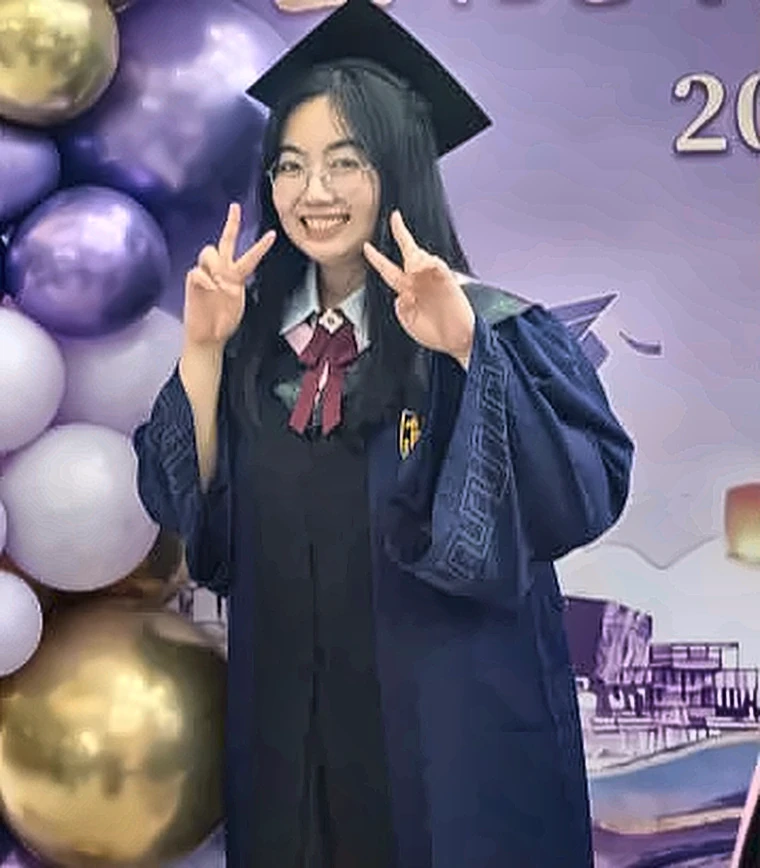
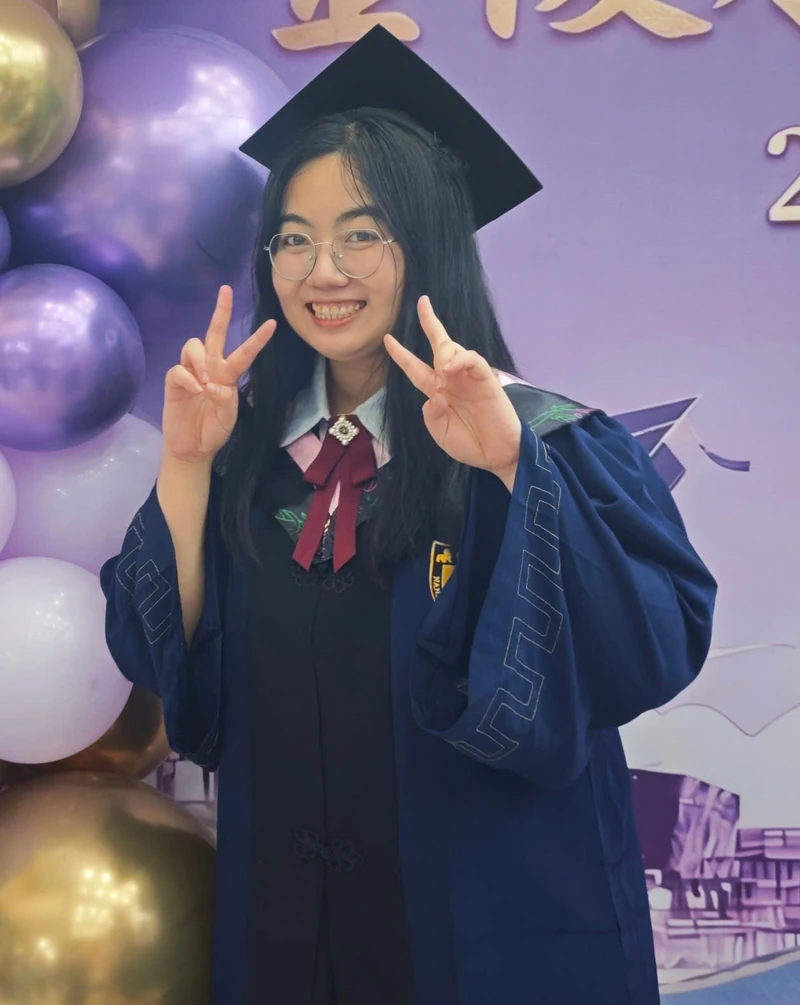
Trang chủ: dùng ảnh gốc rõ nét cho phần giới thiệu cô Roxie
Claude-Session: https://claude.ai/code/session_01PP8723tra8SF1eGCuuoKea

diff --git a/public/index.html b/public/index.html
@@ -3,7 +3,7 @@
 <div class="wrap quick-path"><a href="#khoa-hoc"><span class="path-number">01</span><span><b>Mình mới bắt đầu</b><small>Tìm lớp học phù hợp</small></span><i>↗</i></a><a href="#tro-choi"><span class="path-number">02</span><span><b>Mình muốn ôn bài</b><small>Chơi một chút, nhớ thêm từ</small></span><i>↗</i></a><a href="#co-giao"><span class="path-number">03</span><span><b>Làm quen cô Roxie</b><small>Gặp người bạn đồng hành</small></span><i>↗</i></a></div>
 <section id="tro-choi" class="wrap section"><div class="section-head"><div><p class="eyebrow">GÓC TRÒ CHƠI</p><h2>Học mà như đang chơi.</h2></div><p>Ôn từ vựng theo cách của bạn.<br>Không cần đăng nhập, mở lên là chơi.</p></div><div class="games"><article class="game"><a class="game-cover melon" href="dua-hau.html" aria-label="Chơi Dưa Hấu Rừng Xanh"><span class="tag">Gộp trái cây</span><svg viewBox="0 0 400 190" aria-hidden="true"><ellipse cx="206" cy="165" rx="118" ry="12" fill="#1a6352" opacity=".1"/><g stroke="#285b46" stroke-width="4" stroke-linejoin="round"><path d="M106 64a100 100 0 0 0 200 0Z" fill="#70b887"/><path d="M119 66a87 87 0 0 0 174 0Z" fill="#fff3c9"/><path d="M130 67a76 76 0 0 0 152 0Z" fill="#f38087"/><circle cx="85" cy="136" r="29" fill="#f1bf55"/><circle cx="317" cy="123" r="31" fill="#f4a37c"/></g><g fill="#453a3a"><ellipse cx="171" cy="91" rx="3" ry="5" transform="rotate(-20 171 91)"/><ellipse cx="205" cy="105" rx="3" ry="5"/><ellipse cx="239" cy="91" rx="3" ry="5" transform="rotate(20 239 91)"/></g><path d="M78 108q7-25 25-16q-7 19-25 16M310 91q10-21 27-13q-9 19-27 13" fill="#4e996c"/></svg></a><div class="game-body"><small>TỪ VỰNG · PHẢN XẠ</small><h3>Dưa Hấu Rừng Xanh</h3><p>Gộp hai trái giống nhau và học tên các loại quả, từ 樱桃 đến 西瓜.</p><a class="text-link" href="dua-hau.html">Chơi ngay <span>↗</span></a></div></article><article class="game"><a class="game-cover peach" href="chem-hoa-qua.html" aria-label="Chơi Chém Hoa Quả"><span class="tag">Ghép từ thật nhanh</span><svg viewBox="0 0 400 190" aria-hidden="true"><g stroke="#5f5540" stroke-width="3"><circle cx="117" cy="107" r="43" fill="#f6b55a"/><circle cx="239" cy="73" r="29" fill="#f191a1"/><circle cx="290" cy="137" r="33" fill="#9ab986"/></g><path d="m163 154 90-118" stroke="#fff" stroke-width="9" stroke-linecap="round"/><path d="m177 157 79-103" stroke="#fff" stroke-opacity=".45" stroke-width="3" stroke-linecap="round"/><g fill="#70966b"><path d="M102 64q10-26 33-17q-8 20-33 17M231 42q8-19 24-13q-4 16-24 13"/></g><g fill="#587f6f" font-family="serif" font-size="27"><text x="34" y="49">词</text><text x="330" y="69">语</text></g></svg></a><div class="game-body"><small>TỪ GHÉP · THỬ THÁCH</small><h3>Chém Hoa Quả</h3><p>Đọc câu hỏi, tìm từ ghép đúng và chém quả bằng chuột, ngón tay hoặc camera.</p><a class="text-link" href="chem-hoa-qua.html">Chơi ngay <span>↗</span></a></div></article><article class="game"><a class="game-cover city" href="thanh-pho.html" aria-label="Khám phá Thành Phố Cá Voi"><span class="tag">Khám phá & học từ</span><img src="assets/city-preview.png" alt="Bản đồ công viên trong thế giới Thành Phố Cá Voi" width="1400" height="1000" loading="lazy"></a><div class="game-body"><small>TỪ VỰNG HSK · KHÁM PHÁ</small><h3>Thành Phố Cá Voi</h3><p>Ghé chợ, quán ăn, bệnh viện, ga tàu… làm nhiệm vụ từ vựng và thu thập sao.</p><a class="text-link" href="thanh-pho.html">Vào thành phố <span>↗</span></a></div></article></div><div class="games" style="margin-top:23px"><article class="game"><a class="game-cover" style="background:var(--lilac)" href="live.html" aria-label="Vào phòng học trực tiếp"><span class="tag">Giáo viên và cả lớp cùng chơi</span><svg viewBox="0 0 400 190" aria-hidden="true"><g stroke="#5b4f78" stroke-width="3" stroke-linejoin="round"><rect x="60" y="44" width="280" height="92" rx="18" fill="#fffefa"/><circle cx="120" cy="90" r="22" fill="#cfe3f5"/><circle cx="200" cy="90" r="22" fill="#f9e7af"/><circle cx="280" cy="90" r="22" fill="#d9ecd9"/></g><g fill="#587f6f" font-family="serif" font-size="24" text-anchor="middle"><text x="120" y="99">学</text><text x="200" y="99">问</text><text x="280" y="99">好</text></g><path d="M150 150h100" stroke="#8a79b0" stroke-width="6" stroke-linecap="round"/></svg></a><div class="game-body"><small>TRỰC TIẾP · NHẬP MÃ PHÒNG</small><h3>Phòng học trực tiếp</h3><p>Nhập mã giáo viên gửi để vào lớp: Đấu trường, Đua cá voi, Kéo co cùng bạn bè.</p><a class="text-link" href="live.html">Vào phòng <span>↗</span></a></div></article><article class="game"><a class="game-cover" style="background:var(--butter)" href="tro-choi.html" aria-label="Sân chơi ôn tập"><span class="tag">9 trò chơi · không cần đăng nhập</span><svg viewBox="0 0 400 190" aria-hidden="true"><g stroke="#8a6d2a" stroke-width="3" stroke-linejoin="round"><rect x="70" y="40" width="70" height="70" rx="14" fill="#fffefa"/><rect x="165" y="60" width="70" height="70" rx="14" fill="#cfe3f5"/><rect x="260" y="40" width="70" height="70" rx="14" fill="#f5d4cf"/></g><g fill="#587f6f" font-family="serif" font-size="34" text-anchor="middle"><text x="105" y="88">鱼</text><text x="200" y="108">鲸</text><text x="295" y="88">海</text></g><path d="M100 150q100 22 200 0" stroke="#fff" stroke-width="6" fill="none" stroke-linecap="round"/></svg></a><div class="game-body"><small>TỰ ÔN TẬP · TỪ VỰNG VÀ NGỮ PHÁP</small><h3>Sân chơi ôn tập</h3><p>Nối cặp, lật thẻ, triệu phú, bong bóng, đào vàng, cá voi bay… chọn bài rồi chơi.</p><a class="text-link" href="tro-choi.html">Chơi ngay <span>↗</span></a></div></article><article class="game"><a class="game-cover" style="background:var(--mint)" href="phong.html" aria-label="Dành cho giáo viên"><span class="tag">Dành cho giáo viên</span><svg viewBox="0 0 400 190" aria-hidden="true"><g stroke="#285b46" stroke-width="3" stroke-linejoin="round"><rect x="110" y="36" width="180" height="110" rx="16" fill="#fffefa"/></g><g fill="#2a6858"><rect x="134" y="62" width="70" height="8" rx="4"/><rect x="134" y="82" width="132" height="8" rx="4" opacity=".5"/><rect x="134" y="102" width="100" height="8" rx="4" opacity=".5"/></g><circle cx="262" cy="64" r="12" fill="#f3d88e" stroke="#a27f30" stroke-width="2"/></svg></a><div class="game-body"><small>GIÁO VIÊN · QUẢN TRỊ</small><h3>Phòng học của giáo viên</h3><p>Đăng nhập để tạo phòng, chọn bài từ vựng và ngữ pháp, rồi gửi mã cho học sinh.</p><a class="text-link" href="phong.html">Đăng nhập <span>↗</span></a></div></article></div><p class="section-foot">Một chút tò mò hôm nay, thêm một từ mới ngày mai. <span>一起学习吧！</span></p></section>
 <section id="khoa-hoc" class="course-section section"><div class="wrap"><div class="section-head"><div><p class="eyebrow">CON ĐƯỜNG HSK CỦA BẠN</p><h2>Mỗi chặng, một bước tiến.</h2></div><p>Từ những câu chào đầu tiên<br>đến tự tin trò chuyện bằng tiếng Trung.</p></div><div class="filter-row" role="group" aria-label="Lọc khóa học"><button class="filter on" data-filter="all" aria-pressed="true">Tất cả khóa học</button><button class="filter" data-filter="beginner" aria-pressed="false">Bắt đầu · HSK 1–2</button><button class="filter" data-filter="middle" aria-pressed="false">Tiếp nối · HSK 3–4</button><button class="filter" data-filter="advanced" aria-pressed="false">Nâng cao · HSK 5–6</button></div><p class="sr-only" id="filter-status" aria-live="polite">6 khóa học</p><div class="cards course-grid"><article class="card course l1" id="hsk1" data-level="beginner"><div class="hd"><span class="seal" aria-hidden="true">一</span><div><div class="lv">Sơ cấp</div><h3>HSK 1 · 3.0</h3></div></div><p>Cho người mới bắt đầu. Học ngữ âm, từ vựng, ngữ pháp và chữ Hán sơ cấp, phát âm chuẩn tiếng phổ thông.</p><dl><dt>Số buổi</dt><dd>24 buổi + 1 buổi thi</dd><dt>Học phí</dt><dd>2.300.000đ</dd></dl><div class="row"><a class="btn gold" style="padding:8px 20px;font-size:15px" href="hsk1.html">Xem chi tiết →</a></div></article><article class="card course l2" id="hsk2" data-level="beginner"><div class="hd"><span class="seal" aria-hidden="true">二</span><div><div class="lv">Sơ cấp</div><h3>HSK 2 · 3.0</h3></div></div><p>Cho bạn đã xong HSK 1 (3.0). Mở rộng hội thoại về du lịch, mua sắm, sinh hoạt.</p><dl><dt>Số buổi</dt><dd>25 buổi + 1 buổi thi</dd><dt>Học phí</dt><dd>2.400.000đ</dd></dl><div class="row"><a class="btn gold" style="padding:8px 20px;font-size:15px" href="hsk2.html">Xem chi tiết →</a></div></article><article class="card course l3" id="hsk3" data-level="middle"><div class="hd"><span class="seal" aria-hidden="true">三</span><div><div class="lv">Sơ - Trung cấp</div><h3>HSK 3 · 3.0</h3></div></div><p>Rèn 5 kỹ năng nghe, nói, đọc, viết, dịch. Nắm 2245 từ vựng và 210 điểm ngữ pháp. Có làm việc nhóm, nghe nói ngay tại lớp và 2 lần thuyết trình trong cả khóa.</p><dl><dt>Số buổi</dt><dd>30 buổi + 1 buổi thi</dd><dt>Học phí</dt><dd>3.300.000đ</dd></dl><div class="row"><a class="btn gold" style="padding:8px 20px;font-size:15px" href="hsk3.html">Xem chi tiết →</a></div></article><article class="card course l4 wip" id="hsk4" data-level="middle"><div class="hd"><span class="seal" aria-hidden="true">四</span><div><div class="lv">Trung cấp</div><h3>HSK 4</h3></div></div><p>Thông tin chi tiết khóa HSK 4 đang được cập nhật.</p><dl><dt>Liên hệ</dt><dd>Nhắn cô Roxie để biết lịch và học phí</dd></dl><div class="row"><a class="btn gold" style="padding:8px 20px;font-size:15px" href="hsk4.html">Xem chi tiết →</a></div></article><article class="card course l5" id="hsk5" data-level="advanced"><div class="hd"><span class="seal" aria-hidden="true">五</span><div><div class="lv">Trung cấp</div><h3>HSK 5</h3></div></div><p>Dạy bằng tiếng Trung xuyên suốt. Có thảo luận nhóm, bài luận, biện luận 辩论赛 và 2 lần thuyết trình nhóm. Nâng 5 kỹ năng nghe, nói, đọc, viết, gõ chữ lên mức Trung cấp.</p><dl><dt>Số buổi</dt><dd>52 buổi, 2 buổi mỗi tuần</dd><dt>Học phí</dt><dd>7.100.000đ</dd></dl><div class="row"><a class="btn gold" style="padding:8px 20px;font-size:15px" href="hsk5.html">Xem chi tiết →</a></div></article><article class="card course l6" id="hsk6" data-level="advanced"><div class="hd"><span class="seal" aria-hidden="true">六</span><div><div class="lv">Cao cấp</div><h3>HSK 6</h3></div></div><p>Lớp giao tiếp và thảo luận trong mỗi buổi, làm việc nhóm, thuyết trình, xem báo và video trả lời câu hỏi, kèm bài tập nói và viết. Không phù hợp với bạn học cấp tốc.</p><dl><dt>Số buổi</dt><dd>50 buổi, 2 buổi mỗi tuần</dd><dt>Học phí</dt><dd>Liên hệ cô Roxie</dd></dl><div class="row"><a class="btn gold" style="padding:8px 20px;font-size:15px" href="hsk6.html">Xem chi tiết →</a></div></article></div><div class="course-hint"><span>✦</span><p><b>Chưa từng học tiếng Trung?</b> Bắt đầu với HSK 1 để làm quen ngữ âm, chữ Hán và những cuộc hội thoại đầu tiên.</p><a href="hsk1.html">Xem HSK 1 →</a></div></div></section>
-<section id="co-giao" class="wrap section"><div class="teacher-layout"><div class="teacher-art"><img class="teacher-photo" src="assets/teachers/dang-thi-nhu-tam.webp?v=2" alt="Ths. Đặng Thị Như Tâm (cô Roxie)" width="714" height="816" loading="lazy"><span class="teacher-sticker">慢慢来，比较快。<small>Chậm rãi mà vững vàng.</small></span></div><div class="teacher-copy"><p class="eyebrow">NGƯỜI ĐỒNG HÀNH CÙNG BẠN</p><h2>Xin chào,<br> cô là Roxie.</h2><p><b>Ths. Đặng Thị Như Tâm</b>, thạc sĩ Giáo dục Hán ngữ quốc tế, ĐH Nam Kinh (top 6 Trung Quốc), có chứng chỉ HSK 6, HSKK Cao cấp và HSK 7.</p><p>Cô có hơn 5 năm dạy tiếng Trung các cấp từ HSK 1 đến HSK 6, với lớp nhỏ 8–10 bạn. Cùng giao tiếp, thảo luận ngay trong buổi học, luyện nói và viết sau mỗi bài, có video để xem lại.</p><div class="teacher-tags"><span>HSK 1 đến HSK 6</span><span>Lớp nhỏ 8–10 bạn</span><span>Xem lại video buổi học</span></div><details><summary>Học vấn và thành tích</summary><ul class="bio"><li>2026: Tốt nghiệp Thạc sĩ ngành Giáo dục Hán ngữ quốc tế, ĐH Nam Kinh (top 6 Trung Quốc)</li><li>9/2023: Nghiên cứu sinh Thạc sĩ tại ĐH Nam Kinh, học bổng toàn phần của chính phủ Trung Quốc năm 2023</li><li>7/2023: Tốt nghiệp loại giỏi ngành Ngôn ngữ Trung Quốc, ĐH Thủ Dầu Một</li><li>Học bổng 1 kỳ tiếng do Viện Khổng Tử cấp tại ĐH Vũ Hán</li><li>Hơn 5 năm kinh nghiệm giảng dạy tiếng Trung các cấp (HSK 1 đến HSK 6)</li><li>Chứng chỉ HSK 6, HSKK Cao cấp, HSK 7</li><li>Chứng nhận đào tạo giáo viên: ĐH SP Bắc Kinh, ĐH SP Thủ Đô, ĐH SP Liêu Ninh, ĐH Ngoại ngữ Bắc Kinh (2025), ĐH Ký Nam (2026); chứng nhận nghiệp vụ sư phạm dành cho giảng viên đại học ở Việt Nam</li><li>Học 1 kỳ hoặc 1 năm tiếng tại ĐH Vũ Hán, ĐH SP Hoa Đông, ĐH Đông Hoa Thượng Hải, ĐH Tài chính Đông Bắc, ĐH Tài chính Tây Nam, ĐH Tây Bắc</li><li>2 lần nhận học bổng Zhenggang dành cho nghiên cứu sinh xuất sắc của ĐH Nam Kinh (2024 và 2025)</li><li>1 trong 4 du học sinh toàn trường nhận học bổng nghiên cứu sinh xuất sắc của tỉnh Giang Tô năm 2025</li><li>Giải ba cuộc thi giảng dạy tiếng Trung dành cho nghiên cứu sinh tỉnh Giang Tô</li><li>Giải đề cử cuộc thi 联合国中文日暨中央广播电影总台 quy mô thế giới</li><li>Giải khuyến khích Báo cáo học thuật (502校庆) của Viện Hải ngoại, ĐH Nam Kinh</li><li>Giải &quot;Hoạt động xã hội xuất sắc&quot; tại ĐH Tài chính Đông Bắc, học kỳ mùa Đông</li><li>Đại sứ truyền thông của ĐH SP Hoa Đông Thượng Hải, nhóm đạt giải 3</li><li>Phó chủ nhiệm Trung tâm sinh viên Quốc tế, ĐH Nam Kinh</li></ul></details><p style="margin-top:16px"><a href="#doi-ngu"><b>Gặp đội ngũ giáo viên →</b></a></p></div></div></section>
+<section id="co-giao" class="wrap section"><div class="teacher-layout"><div class="teacher-art"><img class="teacher-photo" src="assets/teachers/dang-thi-nhu-tam.webp?v=3" alt="Ths. Đặng Thị Như Tâm (cô Roxie)" width="800" height="1005" loading="lazy"><span class="teacher-sticker">慢慢来，比较快。<small>Chậm rãi mà vững vàng.</small></span></div><div class="teacher-copy"><p class="eyebrow">NGƯỜI ĐỒNG HÀNH CÙNG BẠN</p><h2>Xin chào,<br> cô là Roxie.</h2><p><b>Ths. Đặng Thị Như Tâm</b>, thạc sĩ Giáo dục Hán ngữ quốc tế, ĐH Nam Kinh (top 6 Trung Quốc), có chứng chỉ HSK 6, HSKK Cao cấp và HSK 7.</p><p>Cô có hơn 5 năm dạy tiếng Trung các cấp từ HSK 1 đến HSK 6, với lớp nhỏ 8–10 bạn. Cùng giao tiếp, thảo luận ngay trong buổi học, luyện nói và viết sau mỗi bài, có video để xem lại.</p><div class="teacher-tags"><span>HSK 1 đến HSK 6</span><span>Lớp nhỏ 8–10 bạn</span><span>Xem lại video buổi học</span></div><details><summary>Học vấn và thành tích</summary><ul class="bio"><li>2026: Tốt nghiệp Thạc sĩ ngành Giáo dục Hán ngữ quốc tế, ĐH Nam Kinh (top 6 Trung Quốc)</li><li>9/2023: Nghiên cứu sinh Thạc sĩ tại ĐH Nam Kinh, học bổng toàn phần của chính phủ Trung Quốc năm 2023</li><li>7/2023: Tốt nghiệp loại giỏi ngành Ngôn ngữ Trung Quốc, ĐH Thủ Dầu Một</li><li>Học bổng 1 kỳ tiếng do Viện Khổng Tử cấp tại ĐH Vũ Hán</li><li>Hơn 5 năm kinh nghiệm giảng dạy tiếng Trung các cấp (HSK 1 đến HSK 6)</li><li>Chứng chỉ HSK 6, HSKK Cao cấp, HSK 7</li><li>Chứng nhận đào tạo giáo viên: ĐH SP Bắc Kinh, ĐH SP Thủ Đô, ĐH SP Liêu Ninh, ĐH Ngoại ngữ Bắc Kinh (2025), ĐH Ký Nam (2026); chứng nhận nghiệp vụ sư phạm dành cho giảng viên đại học ở Việt Nam</li><li>Học 1 kỳ hoặc 1 năm tiếng tại ĐH Vũ Hán, ĐH SP Hoa Đông, ĐH Đông Hoa Thượng Hải, ĐH Tài chính Đông Bắc, ĐH Tài chính Tây Nam, ĐH Tây Bắc</li><li>2 lần nhận học bổng Zhenggang dành cho nghiên cứu sinh xuất sắc của ĐH Nam Kinh (2024 và 2025)</li><li>1 trong 4 du học sinh toàn trường nhận học bổng nghiên cứu sinh xuất sắc của tỉnh Giang Tô năm 2025</li><li>Giải ba cuộc thi giảng dạy tiếng Trung dành cho nghiên cứu sinh tỉnh Giang Tô</li><li>Giải đề cử cuộc thi 联合国中文日暨中央广播电影总台 quy mô thế giới</li><li>Giải khuyến khích Báo cáo học thuật (502校庆) của Viện Hải ngoại, ĐH Nam Kinh</li><li>Giải &quot;Hoạt động xã hội xuất sắc&quot; tại ĐH Tài chính Đông Bắc, học kỳ mùa Đông</li><li>Đại sứ truyền thông của ĐH SP Hoa Đông Thượng Hải, nhóm đạt giải 3</li><li>Phó chủ nhiệm Trung tâm sinh viên Quốc tế, ĐH Nam Kinh</li></ul></details><p style="margin-top:16px"><a href="#doi-ngu"><b>Gặp đội ngũ giáo viên →</b></a></p></div></div></section>
 <section id="doi-ngu" class="wrap section"><style>.teacher-art img.teacher-photo{height:calc(100% - 44px);width:auto;border-radius:20px;margin-bottom:22px}#doi-ngu .gv-head{max-width:640px;margin-bottom:30px}#doi-ngu .gv-head h2{margin-bottom:10px}.gv-grid{display:grid;grid-template-columns:repeat(2,minmax(0,1fr));gap:22px}.gv-card{display:grid;grid-template-columns:150px 1fr;gap:22px;background:var(--panel);border:1px solid var(--line);border-radius:24px;padding:20px;align-items:start}.gv-photo{background:var(--gvbg);border-radius:18px;padding:8px}.gv-photo img{display:block;width:100%;aspect-ratio:4/5;object-fit:cover;border-radius:12px}.gv-body h3{margin:2px 0 2px;font:800 22px/1.25 var(--f-b)}.gv-role{margin:0;color:var(--muted);font-weight:600}.gv-body .teacher-tags{margin:12px 0}.gv-lead{margin:0 0 10px;line-height:1.6}.gv-card details summary{cursor:pointer;font-weight:800;color:var(--accent)}.gv-card .bio{margin:10px 0 0;padding-left:18px;line-height:1.55;font-size:14.5px}.gv-card .bio li{margin-bottom:5px}@media(max-width:900px){.gv-grid{grid-template-columns:1fr}}@media(max-width:480px){.gv-card{grid-template-columns:1fr}.gv-photo{max-width:170px}}</style><div class="gv-head"><p class="eyebrow">ĐỘI NGŨ GIẢNG DẠY</p><h2>Cùng cô Roxie,<br> còn có những thầy cô này.</h2><p>Mỗi thầy cô đều có nền tảng chuyên ngành Hán ngữ và kinh nghiệm học tập, giảng dạy tại Trung Quốc.</p></div><div class="gv-grid"><article class="gv-card" style="--gvbg:var(--lilac)"><div class="gv-photo"><img src="assets/teachers/dang-minh-diep.webp?v=2" alt="Ths. Đặng Minh Diệp" width="400" height="500" loading="lazy"></div><div class="gv-body"><h3>Ths. Đặng Minh Diệp</h3><p class="gv-role">Giáo viên tiếng Trung</p><div class="teacher-tags"><span>HSK 6 · 265 điểm</span><span>HSKK Cao cấp · 76 điểm</span><span>Hơn 4 năm giảng dạy</span></div><p class="gv-lead">Thạc sĩ Giáo dục Hán ngữ quốc tế, ĐH Nam Kinh (top 6 Trung Quốc). Dạy các cấp HSK 1 đến HSK 5, có nhiều học sinh thi đỗ.</p><details><summary>Học vấn và thành tích</summary><ul class="bio"><li>2026: tốt nghiệp thạc sĩ Giáo dục Hán ngữ quốc tế, ĐH Nam Kinh</li><li>2021: tốt nghiệp loại giỏi ngành Ngôn ngữ Trung, ĐH Hà Nội</li><li>Năm 2023: học bổng toàn phần CIS dành cho bậc thạc sĩ ở ĐH Nam Kinh</li><li>Năm 2025: học bổng chính phủ thành phố Nam Kinh dành cho sinh viên quốc tế xuất sắc</li><li>Năm 2026: chứng nhận đào tạo giáo viên, ĐH Ký Nam</li></ul></details></div></article><article class="gv-card" style="--gvbg:var(--sky)"><div class="gv-photo"><img src="assets/teachers/nguyen-xuan-nghia.webp?v=2" alt="Ths. Nguyễn Xuân Nghĩa" width="400" height="500" loading="lazy"></div><div class="gv-body"><h3>Ths. Nguyễn Xuân Nghĩa</h3><p class="gv-role">Thạc sĩ Giáo dục Hán ngữ</p><div class="teacher-tags"><span>HSK 6</span><span>HSKK Cao cấp</span><span>6 năm giảng dạy</span></div><p class="gv-lead">Thạc sĩ Giáo dục Hán ngữ, ĐH Tài chính Đông Bắc. Học bổng toàn phần của chính phủ Trung Quốc (CSC) và học bổng giáo viên tiếng Trung CIS.</p><details><summary>Học vấn và thành tích</summary><ul class="bio"><li>2018 – 2022: Cử nhân Ngôn ngữ Trung Quốc, ĐH Hà Nội</li><li>2023 – 2025: Thạc sĩ Giáo dục Hán ngữ, ĐH Tài chính Đông Bắc</li><li>2025 đến nay: NCS. Thạc sĩ Tâm lý học Giáo dục, ĐH Sư phạm Thiên Tân</li><li>Chứng nhận đào tạo giáo viên tiếng Trung: ĐH Tây Bắc (2024), ĐH Ngoại ngữ Bắc Kinh (2025)</li><li>Tham gia trại đông, trại hè và học 1 kỳ tiếng tại ĐH Sư phạm Sơn Đông, ĐH Thượng Hải, ĐH Trung Sơn, ĐH Ôn Châu, ĐH Sư phạm Cáp Nhĩ Tân</li><li>Giải ba cuộc thi &quot;Tìm hiểu Trung Quốc&quot; tỉnh Liêu Ninh; giải khuyến khích cuộc thi &quot;Kể chuyện bằng tiếng Trung&quot;, ĐH Tài chính Đông Bắc</li><li>Từng phiên dịch cho Tập đoàn CRRC Đại Liên</li></ul></details></div></article><article class="gv-card" style="--gvbg:var(--rose)"><div class="gv-photo"><img src="assets/teachers/ton-gia-kiet.webp?v=2" alt="Tôn Gia Kiệt" width="400" height="500" loading="lazy"></div><div class="gv-body"><h3>Tôn Gia Kiệt</h3><p class="gv-role">Học viên thạc sĩ, ĐH Ngoại ngữ Thiên Tân</p><div class="teacher-tags"><span>HSK 6</span><span>HSKK Cao cấp</span><span>3 năm giảng dạy</span></div><p class="gv-lead">Thủ khoa đầu vào và đầu ra ngành Ngôn ngữ Trung Quốc, ĐH Sư phạm TP.HCM. Đang học thạc sĩ Giáo dục Hán ngữ quốc tế tại ĐH Ngoại ngữ Thiên Tân.</p><details><summary>Học vấn và thành tích</summary><ul class="bio"><li>Thủ khoa đầu vào và thủ khoa đầu ra ngành Ngôn ngữ Trung Quốc, ĐH Sư phạm TP.HCM</li><li>Đang học thạc sĩ Giáo dục Hán ngữ quốc tế, ĐH Ngoại ngữ Thiên Tân (học bổng CSC)</li><li>Học ngắn hạn tại Bắc Kinh và 1 học kỳ tại ĐH Sư phạm Thiên Tân (học bổng CIS)</li><li>Nhận học bổng của trường 7 học kỳ liên tiếp</li><li>Giải ba cuộc thi viết văn chữ phồn thể (2023), giải khuyến khích Olympic tiếng Trung (2024), giải nhì cuộc thi cấp các trường đại học khu vực phía Nam (2025)</li><li>Tham gia đề tài nghiên cứu về lỗi dùng bổ ngữ xu hướng của sinh viên Việt Nam</li></ul></details></div></article><article class="gv-card" style="--gvbg:var(--mint)"><div class="gv-photo"><img src="assets/teachers/phan-viet-thang.webp?v=2" alt="Phan Việt Thắng" width="400" height="500" loading="lazy"></div><div class="gv-body"><h3>Phan Việt Thắng</h3><p class="gv-role">Học viên thạc sĩ, ĐH Yến Sơn</p><div class="teacher-tags"><span>HSK 5</span><span>Biên phiên dịch</span><span>Song ngành Trung – Anh</span></div><p class="gv-lead">Cử nhân Ngôn ngữ Trung Quốc (tốt nghiệp sớm một học kỳ) và cử nhân Ngôn ngữ Anh, ĐH Tôn Đức Thắng. Đang học thạc sĩ Giáo dục Hán ngữ quốc tế tại ĐH Yến Sơn.</p><details><summary>Học vấn và thành tích</summary><ul class="bio"><li>Đang học thạc sĩ Giáo dục Hán ngữ quốc tế, ĐH Yến Sơn (học bổng Hiệu trưởng)</li><li>Học 1 kỳ tiếng tại ĐH Sư phạm Giang Tô (2025)</li><li>2019 – 2024: Cử nhân Ngôn ngữ Trung Quốc, ĐH Tôn Đức Thắng, tốt nghiệp sớm một học kỳ</li><li>2021 – 2024: Cử nhân Ngôn ngữ Anh, ĐH Tôn Đức Thắng</li><li>Giảng dạy tiếng Trung từ 11/2024; có kinh nghiệm biên phiên dịch và hành chính nhân sự</li></ul></details></div></article></div></section>
 <section class="wrap section faq"><div><p class="eyebrow">CÓ THỂ BẠN ĐANG TÒ MÒ</p><h2>Trước khi mình<br> bắt đầu…</h2><p>Một vài câu hỏi nhỏ để bạn dễ chọn<br>cách học phù hợp với mình.</p></div><div class="faq-list"><details><summary>Mình chưa biết tiếng Trung, học lớp nào?</summary><p>HSK 1 dành cho người mới bắt đầu: học ngữ âm, từ vựng, ngữ pháp và chữ Hán sơ cấp. Bạn có thể xem nội dung từng buổi trên trang khóa học.</p></details><details><summary>Chơi game có cần tạo tài khoản không?</summary><p>Không cần đăng nhập. Bạn có thể mở game và chơi ngay trên điện thoại hoặc máy tính.</p></details><details><summary>Mỗi lớp có bao nhiêu học viên?</summary><p>Các lớp học của cô có sĩ số nhỏ, từ 8 đến 10 bạn, để cùng giao tiếp và thảo luận trong buổi học.</p></details><details><summary>Mình có thể xem lại bài sau buổi học không?</summary><p>Có video ghi lại buổi học để bạn xem lại, cùng bài tập nói và viết sau mỗi bài.</p></details></div></section>
 <section id="lien-he" class="wrap section"><div class="contact-box"><div><p class="eyebrow">HẸN GẶP BẠN TRONG LỚP HỌC</p><h2>Mình cùng bắt đầu nhé?</h2><p>Tìm một lớp học vừa sức và một nhịp học phù hợp với bạn.</p><div id="contact-links" class="cta"></div><p class="contact-note" id="contact-note">Thông tin liên hệ của cô đang được cập nhật. Bạn có thể xem trước nội dung các khóa học bên trên.</p><a class="btn" id="contact-fallback" href="#khoa-hoc">Xem các lớp HSK →</a></div><img src="assets/roxie-point.webp" alt="Cô Roxie mời bạn khám phá lớp học" width="461" height="900" loading="lazy"></div></section></main>
